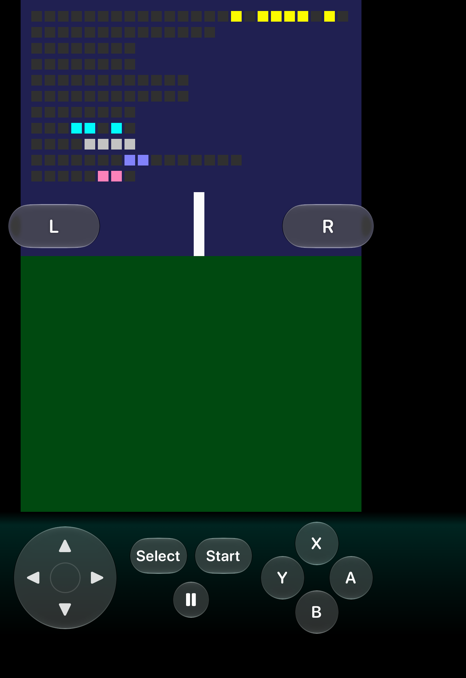
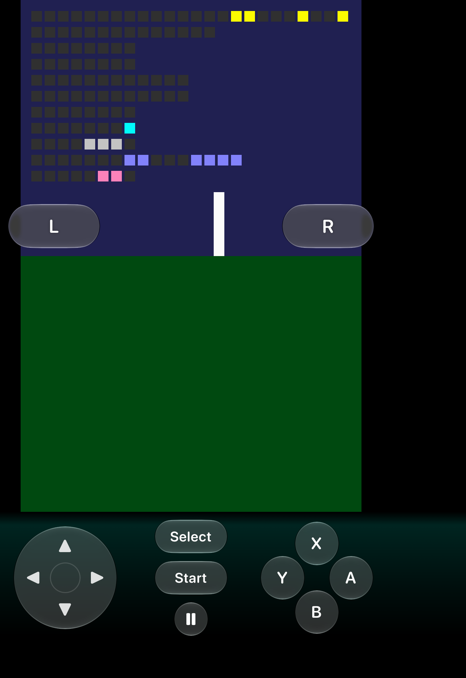
docs: show the new placement in the pictures and notes of the glass interface

diff --git a/docs/wissen/app.md b/docs/wissen/app.md
@@ -38,7 +38,7 @@ App/Sources/
   - Kategorie `fold` (seit M2, Beleg der Posenprüfung mit `Scripts/pose-check.sh`): Scharnier, Szenenphasen, Pausen mit Gründen, „Resumed“, jedes neue Layout, Szene, Bildschirm, Display-Link und Drawable (aus `GameScreen`), Neusynchronisationen und Lücken der Emulation über 50 ms. Eine Lücke ist die Bildperiode plus die größte Verspätung eines Bildstarts, die der Emulations-Thread für sein letztes Intervall (etwa 1 s) veröffentlicht; die App fragt alle 250 ms.
 - **`RootView`** (seit der Prüfung von M2): Ein Spiel ersetzt die Bibliothek im Fenster, statt sie als `fullScreenCover` zu überdecken; ebenso die Testmuster des Debug-Builds. Über dem `NavigationStack` der Bibliothek verschluckte das Vollbild nach einer Berührung der Oberkante alle späteren in den obersten 60 bis 70 pt (`docs/wissen/falz.md`, Stolperfallen). `LibraryView` bekommt dafür `open: (RootView.Stage) -> Void`, `GameView` und `TestPatternView` ein `onClose`. Zurück in der Bibliothek baut sie sich neu auf und lädt die Liste neu.
 - **`GameView`** (seit M2, ein Mechanismus für alle Systeme): Ein `Color.clear` im sicheren Bereich misst mit `onFoldGeometryChange(scale: displayScale)`; `GameLayout` rechnet daraus das Layout; `GameStage` zeigt es, als `.background(alignment: .topLeading)` des messenden Views mit `.ignoresSafeArea()`, also in Pixeln des ganzen Views. `onHingeStateChange` speist `PlaySession.hingeChanged`. Die vertikale Leiste folgt `GameSystem.disablesVerticalBar` (`VerticalBarBehavior`, `.toolbarVerticalBehavior` ab iOS 27.1), die Leserichtung ist links nach rechts. `.persistentSystemOverlays(.hidden)`, `.statusBarHidden()`, `.defersSystemGestures(on: .all)`, `isIdleTimerDisabled` während des Spiels. Über der Bühne liegt `GameOverlays` in denselben Koordinaten, an den Stellen aus `OverlayPlacement` (Debug-Overlay, Ton-Chip, Hinweis, Fehleransicht). Das Pausenmenü ist ein System-Sheet (ADR 0007) mit Fortsetzen, einem Schalter für das Debug-Overlay und Beenden; es steht, solange `showsPauseMenu` gilt, auch außen nach dem Zuklappen, und schließt sich, wenn die Sitzung von selbst fortsetzt. „Resume“ ruft `resumeFromMenu()`, Wegwischen ebenso, „Quit Game“ schließt erst das Sheet und beendet dann über `quit()`. `RootView` gibt dem Spiel die Spielfarbe (`gameStyle`), die Wahl Glas oder flach (`resolvesControlSurface()`) und das dunkle Erscheinungsbild. Seit der Prüfung beendet nur `quit()` das Spiel („Quit Game“, „Close“ nach einem Fehlstart, der Wunsch des Kerns), danach bringt `onClose` die Bibliothek zurück; `onDisappear` hält das Spiel nicht an, damit es weiterläuft, falls die Ansicht beim Displaywechsel kurz die Hierarchie verlässt. „Game view appeared“ und „disappeared“ mit der Phase stehen im Log (Kategorie `fold`). Geht der Zustand der Ansicht ganz verloren, stoppt die Sitzung beim Freigeben selbst.
-- **`GameStage`**: `GameScreen` über den ganzen View mit einer `ScreenArrangement` aus den `PlacedScreen`s (die Bilder springen, `transaction` ohne Animation; vor dem ersten Bild die Kachelkunst auf jedem Bildschirm, `LoadingBackdrop`), das Deck hinter den Tasten, die keinen Bildschirm decken (`DeckLayout`), `TouchControls` in ihren Zonen (animiert, Glas aus ADR 0007), darüber `TouchSurface` für alle Finger und der Pause-Knopf aus Glas in der Menüzone zwischen Select und Start. Ohne Touch-Tasten (Controller in Benutzung) steht die Pausentaste dort, wo `GameLayout.pauseButton` sie hinlegt: in einer unteren Ecke des sicheren Bereichs außerhalb des Touchscreens, sonst in einer oberen unter dem Schutzrand (seit der Prüfung; vorher oben rechts wie in M1). Die Lage kommt aus `OverlayPlacement`. Sie nimmt Berührungen auf mindestens 44 × 44 pt, auch wo sie mit 36 pt gezeichnet ist (`PauseButton.minimumTarget`). Die Zeilen des Debug-Overlays brechen vor ihr um, wenn sie in der oberen Hälfte steht, und vor einem Touchscreen, der neben der Ecke des Overlays beginnt. Solange das Pausen-Sheet offen ist, blenden die Tasten aus.
+- **`GameStage`**: `GameScreen` über den ganzen View mit einer `ScreenArrangement` aus den `PlacedScreen`s (die Bilder springen, `transaction` ohne Animation; vor dem ersten Bild die Kachelkunst auf jedem Bildschirm, `LoadingBackdrop`), das Deck hinter den Tasten, die keinen Bildschirm decken (`DeckLayout`), `TouchControls` in ihren Zonen (animiert, Glas aus ADR 0007), darüber `TouchSurface` für alle Finger und der Pause-Knopf aus Glas in der Menüzone bei Select und Start, mittig unter dem Bild (`docs/wissen/falz.md`). Ohne Touch-Tasten (Controller in Benutzung) steht die Pausentaste dort, wo `GameLayout.pauseButton` sie hinlegt: in einer unteren Ecke des sicheren Bereichs außerhalb des Touchscreens, sonst in einer oberen unter dem Schutzrand (seit der Prüfung; vorher oben rechts wie in M1). Die Lage kommt aus `OverlayPlacement`. Sie nimmt Berührungen auf mindestens 44 × 44 pt, auch wo sie mit 36 pt gezeichnet ist (`PauseButton.minimumTarget`). Die Zeilen des Debug-Overlays brechen vor ihr um, wenn sie in der oberen Hälfte steht, und vor einem Touchscreen, der neben der Ecke des Overlays beginnt. Solange das Pausen-Sheet offen ist, blenden die Tasten aus.
 - **Touch**: `TouchLayout` ist ein reiner Wert aus den `ControlZones` (Pixel → Punkte): Steuerkreuz in der Mitte seiner Zone (Radius 45 % der kürzeren Seite, höchstens 80 pt; acht Sektoren zu 45°, Totzone 30 %, Reichweite 140 %, wo keine Taste liegt), Aktionstasten A und B schräg wie am GBA oder X, A, B, Y als Raute wie am DS (`GameSystem.hasXYButtons`), L und R als Kapseln an den Außenkanten ihrer Zonen, Select, Pause und Start in einer Reihe, in zwei Reihen oder gestapelt, je nach Zone. Beschriftungen als Text, jede Taste ein eigenes Bedienungshilfe-Element (`touch-button-<Name>`, `touch-pad`, `pause`).
 - **Touchscreen** (`TouchRouter`, rein und getestet): Ein Finger, der auf dem Touchscreen beginnt, ist der Stift, wenn es noch keinen gibt; er bleibt beim Abgleiten geklemmt am Rand (`TouchMapping.clampedPixel`) und hebt mit dem Finger ab (`setTouchPointer(nil)`). Ein zweiter Finger dort zählt nicht. Jeder andere Finger drückt Tasten, aber nie auf dem Touchscreen. `GameStage` macht aus dem Pixel `PointerPosition(pixelX:pixelY:frameWidth:frameHeight:)` mit `framePixel` (DS unten: y + 192) und `SystemScreens.frameSize` (256 × 384).
 - **Controller**: `ControllerInput` beobachtet Verbindungen auf dem Main Actor; `InputRouter` (`nonisolated`) hängt `GCControllerLiveInput` an eine eigene serielle Queue (`inputStateQueueDepth = 16`, `nextInputState()`-Schleife) und vereint die Masken aller Controller. Belegung nach Position: Ost A, Süd B, West Y, Nord X, Schultern und Trigger L und R, Steuerkreuz und linker Stick ab halbem Weg, Menü Start, Optionen Select. Die Tastatur (`GCKeyboard`) folgt RetroArchs Standard für Spieler 1 (`config.def.keybinds.h`, Commit 6ebf66b vom 30. Oktober 2026): Pfeile, X = A, Z = B, S = X, A = Y, Q = L, W = R, Return = Start, rechte Umschalttaste = Select. Die Touch-Tasten verschwinden, sobald ein verbundener Controller eine Taste gedrückt hat (`ControllerInput.isControllerInUse`), und kommen zurück, wenn er sich trennt. Verbindungen und der Wechsel stehen im Log (Kategorie `input`).

diff --git a/docs/wissen/oberflaeche.md b/docs/wissen/oberflaeche.md
@@ -194,6 +194,7 @@ Gegenüber dem Entwurf vom 7. November 2026, aus dem ADR 0007 hervorging, jeweil
 36. **Raster folgt einem Fenster, das schmaler wird** (Gestaltung): `GameGrid` nimmt die angebotene Breite (`frame(minWidth: 0, maxWidth: .infinity)`), damit eine `ScrollView` nicht mit dem Inhalt wächst. Zuvor blieb nach jedem Zuklappen (aus Buch, offen und Tabletop) das Raster mit den vier Spalten des Innendisplays (867 pt) auf dem Außendisplay stehen, Kacheln bei 0 bis 190,67 und 211 bis 466 pt abgeschnitten; nachher 2 Kacheln zu 174 pt bei 20 und 208 pt. Test: `LibraryColumnsTests.theGridNeverAsksForMoreWidthThanItIsOffered` (schlägt ohne den Fix mit 867 statt 382 pt fehl).
 37. **Galerie-Szenen** (Gestaltung): `GalleryScene.sidewaysGBA` hat den gemessenen sicheren Bereich der Pose zugeklappt quer (oben 246 px, unten 102 px), die Seite `game-landscape` zeigt damit die echte Lage. Die Seiten, die Beschriftungen messen (`touch-landscape`, der quer liegende Teil von `touch-differentiate`), behalten die Geometrie ohne sicheren Bereich als eigene Szene `sidewaysGBAOverThePicture`, im Code als ungünstigster Fall beschrieben; ihre Messwerte sind unverändert.
 38. **Audit der Lizenzseite im Buch ohne die Kontrast-Prüfung** (Gestaltung): Die Zeitgrenze im Buch kam nicht aus dem Raster, sondern allein aus der Kontrast-Prüfung des Audits auf der Lizenzseite mit Liste und Text nebeneinander; das ist eine Eigenheit des Audits (Einzelheiten unter „Tour in jeder Pose“). `LibraryLayoutUITests.testLicensesShowTheirListAndAtAFoldATextBesideIt` läuft deshalb mit echtem Falz mit den vier Arten, die durchlaufen, und der Kontrast des Textes wird in Pixeln gemessen: Name und Absätze 21,00 : 1 (Grenze 4,5), der Hinweis als sekundäres Label 3,44 : 1 (Grenze 3, die Stufe „nearly passed“). Die beiden Audits des Rasters behalten alle fünf Arten. Das gehört zu Abweichung 8 (Audit mit begründeten Ausnahmen).
+39. **Tasten auf einer Höhe, Menü unter dem Bild** (Gestaltung, nach Fatihs Rückmeldung vom 11. November 2026): In den Vorlagen mit Spalten stand das Menü (Select, Pause, Start) am Fuß der rechten Spalte, direkt unter den Aktionstasten, und schob sie 22 bis 66 pt über das Steuerkreuz. Jetzt liegen Steuerkreuz und Aktionstasten in jeder Pose auf einer Höhe, und das Menü sitzt mittig direkt unter dem Bild: beim GBA zugeklappt und im Tabletop in einer Leiste zwischen L und R, quer und offen als Reihe unter dem Bild, beim DS zugeklappt als Spalte zwischen Steuerkreuz und Raute, offen in der Leiste unter den Bildschirmen, im Tabletop unter dem Touchscreen. An einem senkrechten Falz teilt es sich (Select und Pause davor, Start dahinter). Zugeklappt quer rücken die Bilder dafür nach oben (DS 24 pt, GBA 15 pt, Menüzeile des GBA dort 28 pt). Regeln und Bausteine in `docs/wissen/falz.md`, Entscheidung in ADR 0007, „Lage der Tasten“. Die Tabellen unter „Tour in jeder Pose“ nennen, wo vermerkt, schon die neuen Lagen; die Messwerte der Tour (Kanten, Kontraste, Sheet) stammen vom Stand davor, bis die Tour neu gelaufen ist.
 
 ## Mit M2 zusammengeführt
 
@@ -244,14 +245,14 @@ Teil `poses` der Tour am 7. November 2026, hell und dunkel, jede Pose mit dem pr
 | Pose | View, sicherer Bereich, Falz | DS | GBA | Pausen-Sheet |
 | --- | --- | --- | --- | --- |
 | zu hochkant | 1398 × 2034, Leiste rechts (DS) bzw. oben (GBA) | je 4× bei (61, 0) und (61, 768) | 5× bei (99, 246) | 450 × 269 ab (8, 401) |
-| zu quer (`closed --orientation landscape-left`) | 2034 × 1398, DS Leiste links 252 px, GBA oben 246 px | je 3× bei (759, 72) und (759, 648), Spalten daneben | 6× bei (297, 291), GBA: Steuerkreuz, L und R auf dem Bild, B, A, Select und Start auf dem Deck | 662 × 269 ab (8, 189) |
+| zu quer (`closed --orientation landscape-left`) | 2034 × 1398, DS Leiste links 252 px, GBA oben 246 px | je 3× bei (759, 0) und (759, 576), Spalten daneben, Menü darunter (seit Abweichung 39; vorher bei (759, 72) und (759, 648)) | 6× bei (297, 246), GBA: Steuerkreuz, L und R auf dem Bild, B und A daneben, Select, Pause und Start unter dem Bild (seit Abweichung 39; vorher bei (297, 291)) | 662 × 269 ab (8, 189) |
 | offen | 2853 × 2007, unten 102 px, Falz 121 px bei x 1366, inaktiv | je 5× bei (73, 192) und (1530, 192) | 9× bei (346, 232) über den Falz | 653 × 269 ab (149, 392), mittig |
 | Buch | wie offen, Falz aktiv | je 5× wie offen | 9× wie offen | 460 × 269 ab (8, 392), links vom Falz |
 | Tabletop | 2007 × 2853, Falz 121 px bei y 1366, aktiv | oben 7× bei (107, 41), Touchscreen 5× bei (363, 1639) | 8× bei (43, 73) | 653 × 269 ab (8, 674), unter dem Falz |
 | flach hochkant (`open --orientation landscape-left`) | wie Tabletop, Falz inaktiv | je 5× bei (363, 233) und (363, 1639) | 8× bei (43, 73) | wie Tabletop |
 
 - **Spalte „Pausen-Sheet“:** nach den Nachbesserungen (Abweichung 35) gemessen; am 7. November 2026 waren es 450 × 390 ab (8, 280), 662 × 458 ab (8, 8), 653 × 385 ab (149, 276), 460 × 385 ab (8, 276) und 653 × 456 ab y 488. Die übrigen Spalten gelten unverändert.
-- **Quer zugeklappt:** Der Pause-Knopf nimmt 44 × 44 pt bei (600, 384) und schneidet R nicht; R drückt (`testSidewaysTheRButtonIsFree`, „last R“, kein Sheet). Das Sheet quer reicht über die ganze Breite, sein Inhalt ist seitlich zentriert, die Ränder messen 96 / 96 pt; „Resume“ 5,09 : 1. Beim GBA liegen Steuerkreuz sowie L und R auf dem Bild (Bildplatte), B, A, Select und Start daneben auf dem Deck; die DS-Tasten in den Spalten neben den Bildschirmen (Deck). Gerechnet hatte ADR 0006 den GBA quer mit 8× ohne Rand; gemessen ist die Leiste auch quer oben und der Faktor 6×.
+- **Quer zugeklappt:** Der Pause-Knopf nahm 44 × 44 pt bei (600, 384) und schnitt R nicht; R drückt (`testSidewaysTheRButtonIsFree`, „last R“, kein Sheet). Seit Abweichung 39 sitzt er mit Select und Start unter dem Bild in der Mitte, beim GBA 28 pt groß gezeichnet bei (325, 403), weit weg von R. Das Sheet quer reicht über die ganze Breite, sein Inhalt ist seitlich zentriert, die Ränder messen 96 / 96 pt; „Resume“ 5,09 : 1. Beim GBA liegen Steuerkreuz sowie L und R auf dem Bild (Bildplatte), B und A daneben und Select und Start darunter auf dem Deck; die DS-Tasten in den Spalten neben den Bildschirmen (Deck). Gerechnet hatte ADR 0006 den GBA quer mit 8× ohne Rand; gemessen ist die Leiste auch quer oben und der Faktor 6×.
 - **Innendisplay:** Die Tasten liegen in jeder Pose auf dem Deck neben oder unter den Bildschirmen, beim GBA im Buch und offen in Spalten links und rechts des Bildes, das über dem Falz liegt; Glas liegt nie auf dem Touchscreen oder der Division-Region. Das System legt das Sheet im Buch links vom Falz und im Tabletop unter den Falz, offen mittig.
 - **Sheet nach dem Zuklappen** (Zustände 40 bis 42, hell und dunkel): DS offen gestartet, zugeklappt steht das Sheet außen über dem pausierten Spiel, aufgeklappt ist es zu und das Spiel läuft.
 - **Touch in den echten Posen:** `DSTouchUITests.testEveryTapHitsItsDSPixel` offen, im Buch, im Tabletop und flach hochkant je 32 von 32 Taps im Overlay und im Fadenkreuz, kein Tastendruck (gegen ein Foto des Innendisplays, Zellmitten, siehe Stolperfallen); zugeklappt im vollen Lauf ebenso.

diff --git a/docs/adr/0007-oberflaeche-mit-liquid-glass.md b/docs/adr/0007-oberflaeche-mit-liquid-glass.md
@@ -214,7 +214,7 @@ Größe und Aussehen der Tasten sind davon unberührt. Fatih wünscht sich die S
 
 ## Bilder
 
-Bildschirmfotos aus der Tour dieses Stands (Variante und Pose im Namen; Spielbilder ohne Debug-Overlay aus Zustand 38, sonst Zustände 30, 32, 35 und 36), aufrecht gedreht und verkleinert, Außendisplay 466 × 678 pt (quer 678 × 466), Innendisplay 700 × 492 (Tabletop 492 × 700):
+Bildschirmfotos aus der Tour dieses Stands (Variante und Pose im Namen; Spielbilder ohne Debug-Overlay aus Zustand 38, sonst Zustände 30, 32, 35 und 36), aufrecht gedreht und verkleinert, Außendisplay 466 × 678 pt (quer 678 × 466), Innendisplay 700 × 492 (Tabletop 492 × 700). Die fünf Spielbilder ohne Debug-Overlay sind vom 11. November 2026 und zeigen die neue Lage der Tasten (Abschnitt „Lage der Tasten“); die Bilder mit Sheet und Hinweis zeigen noch den Stand davor:
 
 ![Bibliothek zugeklappt, hell](0007/glass-bibliothek-zugeklappt-hell.jpg)
 
@@ -242,23 +242,23 @@ Lizenzen im Buch: Liste links, Text rechts des Falzes.
 
 ![DS zugeklappt ohne Debug-Overlay](0007/glass-ds-zugeklappt.png)
 
-DS zugeklappt ohne Debug-Overlay: L und R auf dem Bild, Steuerkreuz, Select, Start, X, Y, A, B und Pause auf dem Deck.
+DS zugeklappt ohne Debug-Overlay: L und R auf dem Bild; auf dem Deck das Steuerkreuz, in der Mitte Select, Start und Pause untereinander, rechts X, Y, A, B.
 
 ![DS im Buch](0007/glass-ds-buch.png)
 
-DS im Buch: ein Bildschirm links, der Touchscreen rechts des Falzes, Tasten auf dem Deck.
+DS im Buch: ein Bildschirm links, der Touchscreen rechts des Falzes; darunter die Leiste mit L, Select, Pause, Start und R, darunter Steuerkreuz und Raute auf einer Höhe.
 
 ![DS im Tabletop](0007/glass-ds-tabletop.png)
 
-DS im Tabletop: Bild oben, der Touchscreen unter dem Falz, Tasten daneben.
+DS im Tabletop: Bild oben, der Touchscreen unter dem Falz, Steuerkreuz und Raute daneben auf einer Höhe, Select, Pause und Start darunter.
 
 ![GBA zugeklappt quer](0007/glass-gba-zugeklappt-quer.png)
 
-GBA zugeklappt quer: Steuerkreuz, L und R auf dem Bild, B, A, Select, Start und Pause auf dem Deck.
+GBA zugeklappt quer: L und R an den oberen Ecken des Bildes, Steuerkreuz und B, A daneben auf einer Höhe, Select, Pause und Start unter dem Bild.
 
 ![GBA im Buch](0007/glass-gba-buch.png)
 
-GBA im Buch: das Bild über dem Falz, Tasten in Spalten links und rechts.
+GBA im Buch: das Bild über dem Falz, Steuerkreuz und B, A in den Spalten auf einer Höhe, Select, Pause und Start unter dem Bild beiderseits des Falzes.
 
 ![Pausen-Sheet zugeklappt](0007/glass-pause-sheet-zugeklappt.png)
 

diff --git a/docs/adr/0006-ds-und-falz-layouts.md b/docs/adr/0006-ds-und-falz-layouts.md
@@ -148,6 +148,8 @@ Zahlen mit den Maßen des Simulators (Faktor 3; außen gemessener sicherer Berei
 | DS | flach quer, Buch | beide 5×, links und rechts vom Falz |
 | DS | Tabletop | oben 7× 1792 × 1344 px, Touchscreen 5× 1280 × 960 px |
 
+Seit dem 11. November 2026 gelten für die Lage der Tasten in jeder Vorlage zwei Regeln aus ADR 0007, Abschnitt „Lage der Tasten“: Steuerkreuz und Aktionstasten liegen auf einer Höhe, und Select, Pause und Start sitzen mittig direkt unter dem Bild statt in den Spalten unter den Aktionstasten. Zugeklappt quer rücken die Bilder dafür nach oben; die Faktoren der Tabelle bleiben.
+
 Ergänzt in der Umsetzung: Beim DS zugeklappt ist das Band unter den Bildschirmen nur 132 pt hoch. L und R liegen deshalb über den unteren Ecken des oberen Bildschirms, 8 pt über dem Touchscreen, Start und Select in einer Spalte zwischen Steuerkreuz und Raute. Mit Touch-Tasten sitzt die Pausentaste in der Menüzone zwischen Select und Start. Geändert nach der Prüfung: L und R lagen zuerst über den oberen Ecken, die Pausentaste ohne Touch-Tasten oben rechts wie in M1. Jetzt sitzt sie ohne Touch-Tasten in der ersten Ecke des sicheren Bereichs unter dem Schutzrand, die weder Touchscreen noch aktiven Falz noch eine Verdeckungsregion berührt, in der Reihenfolge unten rechts, unten links, oben rechts, oben links (`GameLayout.pauseButton`). Im Buch und flach quer beginnen beide DS-Bildschirme am Schutzrand, innen bei y = 192 px statt 0; der Faktor bleibt.
 
 Die Planrechnung „DS-Tabletop oben 6-fach“ stimmt für 1878 × 2670 px. Mit den 2007 × 2853 px des Simulators passt 7-fach, solange das Falzband höchstens 55 pt hoch ist. Die Layouts rechnen nur mit dem Rahmen des Views; welche Zahl gilt, entscheidet das Gerät (Gerätetest, Punkt 12).

diff --git a/docs/wissen/geraetetest.md b/docs/wissen/geraetetest.md
@@ -67,7 +67,7 @@ Bedienung mit Glas am Gerät. G1 bis G3 sind seit dem Merge mit M2 auch im Simul
 | Nr. | Was | Wie | Erwartet |
 | --- | --- | --- | --- |
 | G1 | R quer | Duo quer halten, R antippen | Overlay „last R“, „presses“ steigt um 1; kein Pausenmenü |
-| G2 | Pause quer | Pause-Knopf in der Menüzeile rechts unten (zwischen Select und Start) antippen | Sheet geht auf; Inhalt lesbar, nichts unter der Systemspalte abgeschnitten (Bildschirmfoto) |
+| G2 | Pause quer | Pause-Knopf in der Menüzeile unter dem Bild in der Mitte (zwischen Select und Start) antippen | Sheet geht auf; Inhalt lesbar, nichts unter der Systemspalte abgeschnitten (Bildschirmfoto) |
 | G3 | L neben dem Debug-Overlay | quer im Debug-Build L antippen; das Overlay liegt auf keiner Taste (`OverlayPlacement.debugArea`, belegt in jeder echten Pose von `GameOverlayUITests.testTheDebugOverlayCoversNoControl`), ein Test „L unter dem Overlay“ entfällt deshalb | „last L“, „presses“ steigt um 1; das Overlay deckt weder L noch eine andere Taste und nimmt keine Berührung an |
 | G4 | Zwei Finger mit Glas | hochkant und quer: Steuerkreuz und A gleichzeitig halten, dann A und B, dann L und R | „Input held“ zeigt beide Tasten; beide leuchten sofort, nichts hinkt nach |
 | G5 | Zug über die Tasten | hochkant mit zwei Fingern auf den Tasten nach unten ziehen | Das Spiel bleibt, Tasten melden den Zug; ein Schließen per Zoom gibt es seit dem Merge nicht mehr (`RootView`) |
